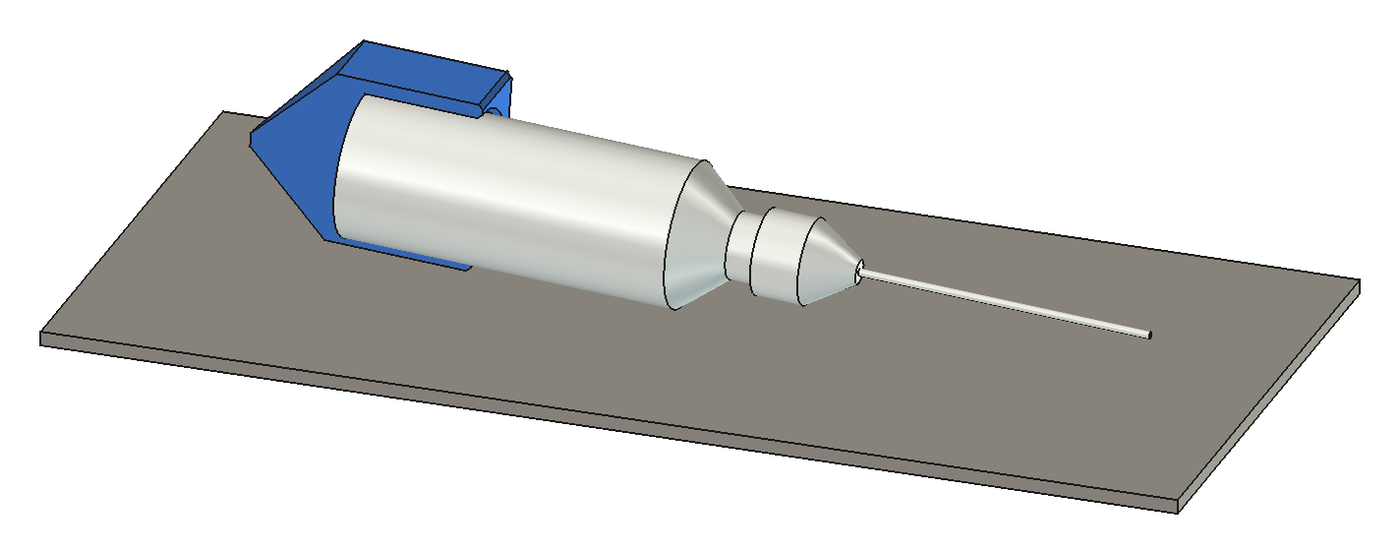
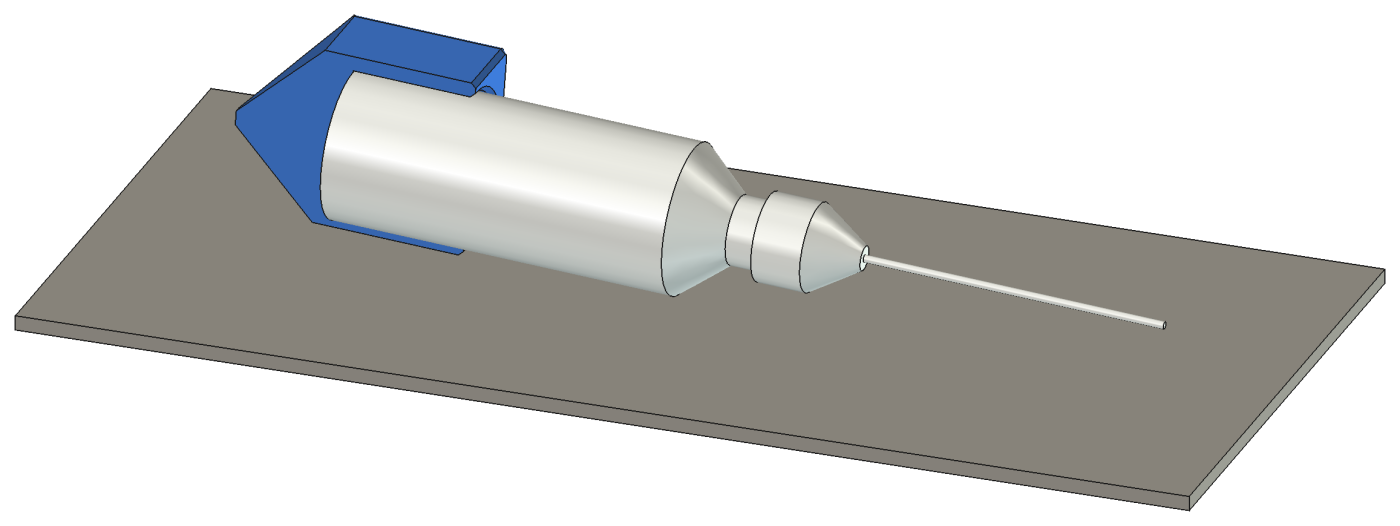
Transparent-background renders via render_previews.py
All three README pictures are now rendered by a script, with transparent
backgrounds so they sit on GitHub's light or dark theme. The upright view
is now a cut-away showing the bottle seated in the pocket.

diff --git a/render_previews.py b/render_previews.py
@@ -1,0 +1,153 @@
+# Renders the README pictures in docs/images/ from design/bottle_base.FCStd,
+# with transparent backgrounds, cropped to the parts.
+#
+# Needs FreeCAD's GUI (it renders through the 3D view), but no window:
+#   QT_QPA_PLATFORM=offscreen freecad render_previews.py
+#   flatpak run --env=QT_QPA_PLATFORM=offscreen org.freecad.FreeCAD render_previews.py
+#
+# Offscreen, FreeCAD ignores camera commands and keeps the view saved in the
+# file, so each shot rotates the *scene* to make that fixed camera see it from
+# the angle we want.
+
+import math
+import os
+
+import FreeCAD as App
+import FreeCADGui as Gui
+import Part
+import numpy as np
+
+try:
+    from PySide6.QtCore import Qt
+    from PySide6.QtGui import QImage
+except ImportError:
+    from PySide2.QtCore import Qt
+    from PySide2.QtGui import QImage
+
+V = App.Vector
+HERE = os.path.dirname(os.path.abspath(__file__))
+MODEL = os.path.join(HERE, "design", "bottle_base.FCStd")
+OUT = os.path.join(HERE, "docs", "images")
+
+BLUE = (0.20, 0.45, 0.85)
+TABLE = (0.62, 0.60, 0.56)
+
+
+def camera(azimuth, elevation):
+    """Camera orientation looking at the origin from the given direction (degrees).
+    azimuth 0 = from -Y (front), positive turns toward +X."""
+    a, e = math.radians(azimuth), math.radians(elevation)
+    Z = V(math.sin(a) * math.cos(e), -math.cos(a) * math.cos(e), math.sin(e))
+    X = V(0, 0, 1).cross(Z).normalize()
+    Y = Z.cross(X)
+    return App.Rotation(App.Matrix(X.x, Y.x, Z.x, 0, X.y, Y.y, Z.y, 0, X.z, Y.z, Z.z, 0, 0, 0, 0, 1))
+
+
+def color(obj, rgb):
+    obj.ViewObject.ShapeAppearance = [App.Material(DiffuseColor=rgb)]
+    obj.ViewObject.Transparency = 0
+
+
+def cutaway(shape, name, doc):
+    """Keep the half of a shape with y >= 0 (the far side from a front camera)."""
+    keep = Part.makeBox(1000, 500, 1000, V(-500, 0, -500))
+    f = doc.addObject("Part::Feature", name)
+    f.Shape = shape.common(keep)
+    return f
+
+
+def shoot(doc, objs, cam, filename, width=1400):
+    view = Gui.getDocument(doc.Name).ActiveView
+    T = App.Placement(V(0, 0, 0), view.getCameraOrientation().multiply(cam.inverted()))
+    for o in objs:
+        o.Placement = T.multiply(o.Placement)
+    doc.recompute()
+    view.fitAll()
+    Gui.updateGui()
+    path = os.path.join(OUT, filename)
+    view.saveImage(path, 4200, 2800, "Transparent")  # big, then cropped
+    crop(path, width)
+    print("wrote", path)
+
+
+def crop(path, width):
+    img = QImage(path).convertToFormat(QImage.Format_ARGB32)
+    w, h = img.width(), img.height()
+    a = np.frombuffer(img.constBits(), np.uint8, count=img.sizeInBytes()) \
+        .reshape(h, img.bytesPerLine())[:, : w * 4].reshape(h, w, 4)[:, :, 3]
+    ys, xs = np.nonzero(a > 8)
+    m = 24
+    x0, y0 = max(xs.min() - m, 0), max(ys.min() - m, 0)
+    x1, y1 = min(xs.max() + m, w - 1), min(ys.max() + m, h - 1)
+    out = img.copy(int(x0), int(y0), int(x1 - x0 + 1), int(y1 - y0 + 1))
+    if out.width() > width:
+        out = out.scaledToWidth(width, Qt.SmoothTransformation)
+    out.save(path)
+
+
+def open_model():
+    doc = App.openDocument(MODEL)
+    Gui.updateGui()
+    p = doc.getObject("Params")
+    base, bottle = doc.getObject("Body"), doc.getObject("Bottle")
+    z_b = bottle.Placement.Base.z
+    bottle.setExpression(".Placement.Base.z", None)  # free it to move; file is never saved
+    return doc, p, base, bottle, z_b
+
+
+def shot_base():
+    """The base alone, pointed end up."""
+    doc, p, base, bottle, _ = open_model()
+    bottle.ViewObject.Visibility = False
+    base.Placement = App.Placement(V(0, 0, 0), App.Rotation(V(1, 0, 0), 180))
+    doc.recompute()
+    color(base, BLUE)
+    shoot(doc, [base], camera(35, 28), "base.png", 900)
+    App.closeDocument(doc.Name)
+
+
+def shot_upright():
+    """Cut-away of the bottle standing in the base (as it would if it could)."""
+    doc, p, base, bottle, _ = open_model()
+    cut = cutaway(base.Shape, "BaseCutaway", doc)
+    base.ViewObject.Visibility = False
+    color(cut, BLUE)
+    shoot(doc, [cut, bottle], camera(20, 15), "assembly.png", 900)
+    App.closeDocument(doc.Name)
+
+
+def shot_lying():
+    """Cut-away of the bottle lying on a table, resting on the base's flat face
+    and the bottle's shoulder."""
+    doc, p, base, bottle, z_b = open_model()
+    half = p.get("outer") / 2
+    tilt = math.degrees(math.atan((half - p.get("bottle_d") / 2) /
+                                  (z_b + p.get("body_h") - p.get("height"))))
+    rot = App.Rotation(V(0, 1, 0), 90 + tilt)
+    base.Placement = App.Placement(V(0, 0, 0), rot)
+    bottle.Placement = App.Placement(rot.multVec(V(0, 0, z_b)), rot)
+    doc.recompute()
+    cut = cutaway(base.Shape, "BaseCutaway", doc)
+    base.ViewObject.Visibility = False
+    zmin = min(base.Shape.BoundBox.ZMin, bottle.Shape.BoundBox.ZMin)
+    bb = base.Shape.BoundBox.united(bottle.Shape.BoundBox)
+    table = doc.addObject("Part::Feature", "Table")
+    table.Shape = Part.makeBox(bb.XLength + 50, 110, 3, V(bb.XMin - 25, -55, zmin - 3))
+    doc.recompute()
+    color(cut, BLUE)
+    color(table, TABLE)
+    shoot(doc, [cut, bottle, table], camera(20, 25), "lying-on-table.png", 1400)
+    App.closeDocument(doc.Name)
+
+
+os.makedirs(OUT, exist_ok=True)
+# FreeCAD's GUI swallows stdout, so report to a log file as well
+import traceback
+with open(os.path.join(HERE, "render_previews.log"), "w") as log:
+    for shot in (shot_base, shot_upright, shot_lying):
+        try:
+            shot()
+            log.write(f"ok   {shot.__name__}\n")
+        except Exception:
+            log.write(f"FAIL {shot.__name__}\n{traceback.format_exc()}\n")
+os._exit(0)  # quit FreeCAD's GUI

diff --git a/README.md b/README.md
@@ -6,9 +6,12 @@ A 3D-printable cap for the 1 oz needle-tip squeeze bottles used at the glassblow
 - **It can't roll.** The outside is square, so the bottle lies on a flat face instead of rolling off the bench.
 
 <p align="center">
-  <img src="docs/images/base.png" width="30%" alt="The base, pointed end up">
-  <img src="docs/images/assembly.png" width="28%" alt="The bottle sitting in the base">
-  <img src="docs/images/lying-on-table.png" width="38%" alt="Cut-away: the bottle seated in the base, lying on its side on a table">
+  <img src="docs/images/base.png" height="260" alt="The base, pointed end up">
+  &nbsp;&nbsp;&nbsp;
+  <img src="docs/images/assembly.png" height="420" alt="Cut-away: the bottle seated in the base">
+</p>
+<p align="center">
+  <img src="docs/images/lying-on-table.png" width="80%" alt="Cut-away: the bottle seated in the base, lying on its side on a table">
 </p>
 
 > [!WARNING]
@@ -23,6 +26,7 @@ A 3D-printable cap for the 1 oz needle-tip squeeze bottles used at the glassblow
 | [`design/bottle_reference.stl`](design/bottle_reference.stl) | The estimated bottle, for checking the fit in a slicer or viewer |
 | [`make_bottle_base.py`](make_bottle_base.py) | Script that builds the FreeCAD model and exports the STLs |
 | [`simulate.py`](simulate.py) | PyBullet physics test: standing up, random drops and rolling |
+| [`render_previews.py`](render_previews.py) | Redraws the pictures in this README from the FreeCAD model |
 
 ## The design
 
@@ -47,6 +51,14 @@ To rebuild everything from scratch, run the script in FreeCAD (**Macro → Macro
 freecadcmd -c "exec(open('make_bottle_base.py').read())"
 # Flatpak FreeCAD:
 flatpak run --command=freecadcmd org.freecad.FreeCAD -c "exec(open('make_bottle_base.py').read())"
+```
+
+Then redraw the README pictures (this needs FreeCAD's GUI, but runs without opening a window):
+
+```sh
+QT_QPA_PLATFORM=offscreen freecad render_previews.py
+# Flatpak FreeCAD:
+flatpak run --env=QT_QPA_PLATFORM=offscreen org.freecad.FreeCAD render_previews.py
 ```
 
 ## Fitting your bottle
